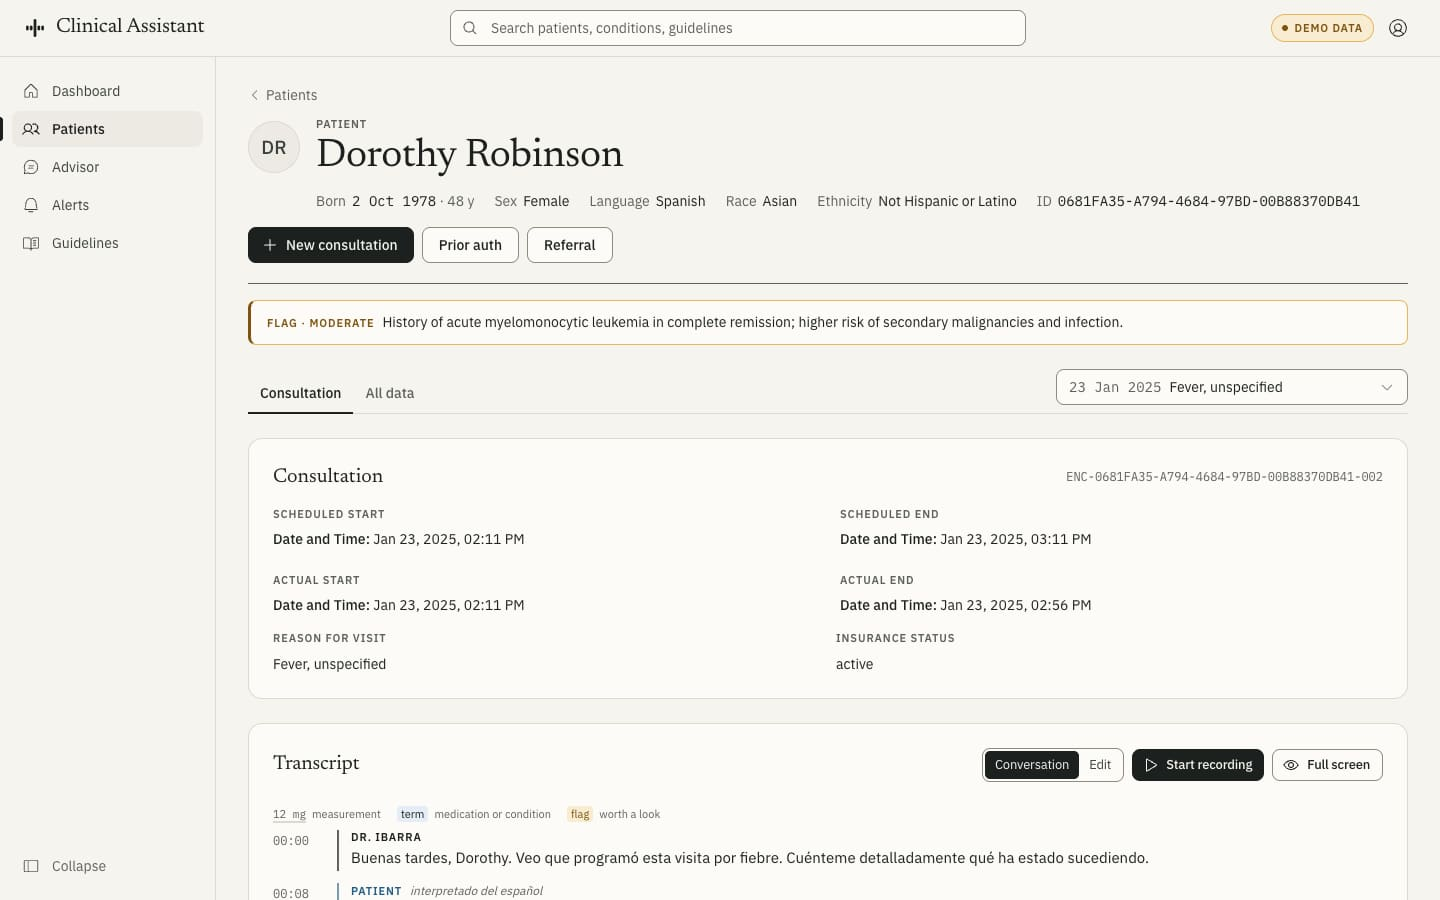
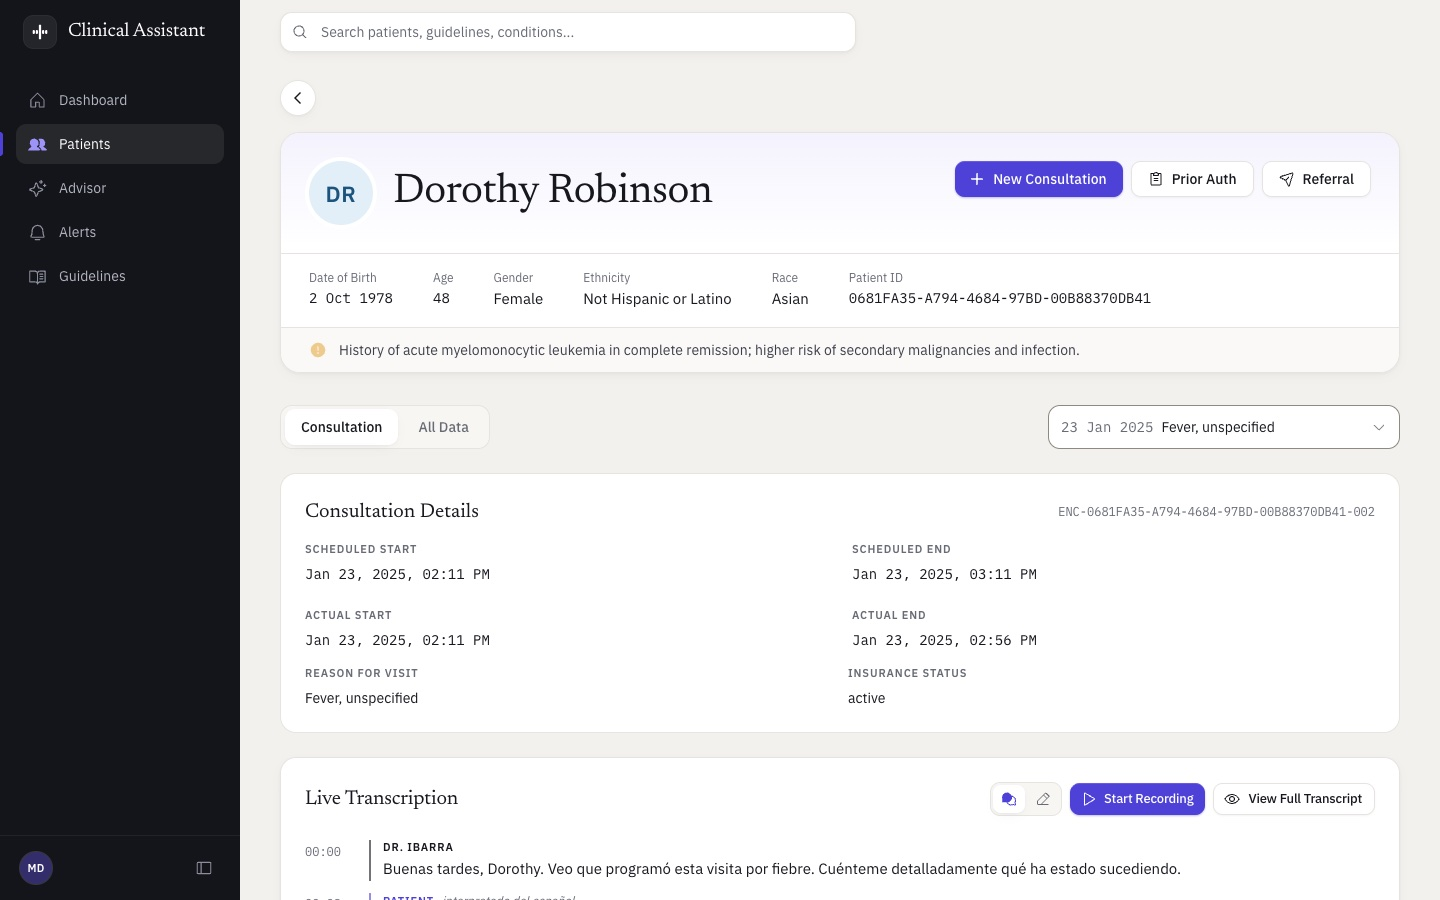
Centre the advisor's composer, and fit the chart's last cards to a phone
The advisor opens with its mark above the composer in the middle of the
screen on a desktop; the composer settles to the foot with the first
question. Treatments stack on a phone instead of overlapping, the form
sections are cards, the alert counts sit in tiles, and the focus ring is
a soft halo. The README screenshot is the new workspace.

By: JJ Martin

diff --git a/src/components/alerts/AlertDashboard.tsx b/src/components/alerts/AlertDashboard.tsx
@@ -7,7 +7,6 @@ import AlertList from './AlertList';
 
 import { Card, CardContent, CardHeader, CardTitle } from '@/components/ui/card';
 
-import { Badge } from '@/components/ui/badge';
 import { Tabs, TabsContent, TabsList, TabsTrigger } from '@/components/ui/tabs';
 import { 
   Funnel as Filter, 
@@ -433,16 +432,18 @@ export const AlertDashboard: React.FC<AlertDashboardProps> = ({
       {/* Statistics Cards with Integrated Filters */}
       <div className="grid grid-cols-1 md:grid-cols-2 gap-4">
         <Card>
-          <CardContent className="p-4">
-            <div className="flex items-center justify-between">
-              <div className="flex items-center space-x-2">
-                <BarChart3 className="h-5 w-5 text-info" />
+          <CardContent className="p-5 sm:p-5">
+            <div className="flex items-center justify-between gap-4">
+              <div className="flex items-center gap-4">
+                <span className="inline-flex h-11 w-11 shrink-0 items-center justify-center rounded-xl ring-1 bg-iris-soft text-iris ring-iris-line" aria-hidden>
+                  <BarChart3 className="h-5 w-5" />
+                </span>
                 <div>
-                  <p className="text-sm font-medium text-ink-2">Total Alerts</p>
-                  <p className="text-2xl font-bold">{totalAlerts}</p>
+                  <p className="label-caps">Total Alerts</p>
+                  <p className="font-display text-3xl [line-height:1.1] text-ink">{totalAlerts}</p>
                 </div>
               </div>
-              <div className="ml-4">
+              <div className="shrink-0">
                 <select
                   value={sortBy}
                   onChange={(e) => handleSortChange(e.target.value as 'date' | 'severity')}
@@ -457,16 +458,18 @@ export const AlertDashboard: React.FC<AlertDashboardProps> = ({
         </Card>
 
         <Card>
-          <CardContent className="p-4">
-            <div className="flex items-center justify-between">
-              <div className="flex items-center space-x-2">
-                <Filter className="h-5 w-5 text-ok" />
+          <CardContent className="p-5 sm:p-5">
+            <div className="flex items-center justify-between gap-4">
+              <div className="flex items-center gap-4">
+                <span className="inline-flex h-11 w-11 shrink-0 items-center justify-center rounded-xl ring-1 bg-ok-soft text-ok ring-ok-line" aria-hidden>
+                  <Filter className="h-5 w-5" />
+                </span>
                 <div>
-                  <p className="text-sm font-medium text-ink-2">Alert Types</p>
-                  <p className="text-2xl font-bold">{uniqueTypes}</p>
+                  <p className="label-caps">Alert Types</p>
+                  <p className="font-display text-3xl [line-height:1.1] text-ink">{uniqueTypes}</p>
                 </div>
               </div>
-              <div className="ml-4">
+              <div className="shrink-0">
                 <select
                   value={selectedType}
                   onChange={(e) => setSelectedType(e.target.value)}
@@ -519,9 +522,9 @@ export const AlertDashboard: React.FC<AlertDashboardProps> = ({
                       <CardTitle className="flex items-center gap-2 text-base">
                         <IconComponent className="h-5 w-5" />
                         {config?.label || type.replace(/_/g, ' ')}
-                        <Badge variant="outline" className="ml-auto">
+                        <span className="ml-auto inline-flex h-6 min-w-6 items-center justify-center rounded-full bg-well px-2 font-sans text-xs font-medium text-ink-2 ring-1 ring-hairline">
                           {typeAlerts.length}
-                        </Badge>
+                        </span>
                       </CardTitle>
                     </CardHeader>
                     <CardContent>

diff --git a/src/components/ui/section.tsx b/src/components/ui/section.tsx
@@ -31,7 +31,7 @@ export default function Section({
   if (!collapsible) {
     return (
       <section className={cn("mb-8 last:mb-0", className)}>
-        <h2 className={cn("text-step-1 font-bold mb-6 text-foreground", headerClassName)}>
+        <h2 className={cn("mb-5 font-display text-xl text-ink [line-height:1.25]", headerClassName)}>
           {title}
         </h2>
         <div className={cn("space-y-4", contentClassName)}>
@@ -41,34 +41,41 @@ export default function Section({
     );
   }
 
+  // Collapsible: a card whose header row opens it.
   return (
-    <Collapsible open={isOpen} onOpenChange={setIsOpen} className={cn("mb-8 last:mb-0", className)}>
+    <Collapsible
+      open={isOpen}
+      onOpenChange={setIsOpen}
+      className={cn("mb-8 rounded-[var(--radius-lg)] border border-border bg-card shadow-card last:mb-0", className)}
+    >
       <CollapsibleTrigger className={cn(
-        "flex items-center justify-between w-full text-left group hover:text-neon transition-all duration-200 p-3 rounded-lg hover:bg-foreground/5 cursor-pointer",
+        "group flex w-full cursor-pointer items-center justify-between gap-4 rounded-[var(--radius-lg)] p-5 text-left transition-colors hover:bg-well/50 focus-visible:outline-none focus-visible:ring-[3px] focus-visible:ring-ring/35 sm:px-6",
         headerClassName
       )}>
-        <div className="flex items-center gap-3">
-          <h2 className="text-step-1 font-bold text-foreground group-hover:text-neon transition-colors">
+        <div className="min-w-0">
+          <h2 className="font-display text-xl text-ink [line-height:1.25]">
             {title}
           </h2>
           {!isOpen && collapsedSummary && (
-            <span className="text-sm text-muted-foreground font-normal">
-              - {collapsedSummary}
-            </span>
+            <p className="mt-0.5 text-sm text-muted-foreground">
+              {collapsedSummary}
+            </p>
           )}
         </div>
-        <ChevronUp 
-          className={cn(
-            "h-5 w-5 text-muted-foreground group-hover:text-neon transition-all duration-300 ease-in-out",
-            isOpen ? "rotate-0" : "rotate-180"
-          )} 
-        />
+        <span className="inline-flex h-8 w-8 shrink-0 items-center justify-center rounded-full bg-well text-ink-2 ring-1 ring-hairline transition-colors group-hover:text-iris">
+          <ChevronUp
+            className={cn(
+              "h-4 w-4 transition-transform duration-300 ease-in-out",
+              isOpen ? "rotate-0" : "rotate-180"
+            )}
+          />
+        </span>
       </CollapsibleTrigger>
       <CollapsibleContent className="data-[state=closed]:animate-accordion-up data-[state=open]:animate-accordion-down overflow-hidden">
-        <div className={cn("pt-6 space-y-4 transition-all duration-300 ease-in-out", contentClassName)}>
+        <div className={cn("space-y-4 px-5 pb-5 sm:px-6 sm:pb-6", contentClassName)}>
           {children}
         </div>
       </CollapsibleContent>
     </Collapsible>
   );
-} 
+}

diff --git a/src/components/ui/editable/EditableTable.tsx b/src/components/ui/editable/EditableTable.tsx
@@ -267,33 +267,35 @@ export function EditableTable({
         ) : (
           <div>
             {normalizedTreatments.length > 0 ? (
-              <div className="space-y-4">
-                <div className="grid grid-cols-12 gap-4 font-medium text-sm text-muted-foreground border-b border-border/30 pb-2">
+              <div>
+                <div className="hidden grid-cols-12 gap-4 border-b border-border pb-2 label-caps sm:grid">
                   <div className="col-span-4">Drug/Medication</div>
                   <div className="col-span-3">Status</div>
                   <div className="col-span-5">Rationale</div>
                 </div>
+                <div className="divide-y divide-border">
                 {normalizedTreatments.map((treatment, index) => (
-                  <div key={index} className="grid grid-cols-12 gap-4 text-sm">
-                    <div className="col-span-4 font-medium">
+                  <div key={index} className="flex flex-col gap-1.5 py-3 text-sm last:pb-0 sm:grid sm:grid-cols-12 sm:gap-4">
+                    <div className="font-medium text-ink sm:col-span-4">
                       {treatment.drug || 'No medication specified'}
                     </div>
-                    <div className="col-span-3">
-                      <span className={`inline-flex items-center px-2 py-1 rounded-full text-xs font-medium ${
+                    <div className="sm:col-span-3">
+                      <span className={`inline-flex items-center rounded-full px-2 py-0.5 text-xs font-medium capitalize ${
                         treatment.status === 'active' ? 'bg-ok-soft text-ok' :
                         treatment.status === 'completed' ? 'bg-info-soft text-info' :
                         treatment.status === 'discontinued' ? 'bg-critical-soft text-critical' :
                         treatment.status === 'on-hold' ? 'bg-flag-soft text-flag' :
                         'bg-well text-ink'
                       }`}>
-                        {statusOptions.find(opt => opt.value === treatment.status)?.label || treatment.status || 'Unknown'}
+                        {(statusOptions.find(opt => opt.value === treatment.status)?.label || treatment.status || 'Unknown').replace(/_/g, ' ')}
                       </span>
                     </div>
-                    <div className="col-span-5 text-muted-foreground">
+                    <div className="leading-relaxed text-muted-foreground sm:col-span-5">
                       {treatment.rationale || 'No rationale provided'}
                     </div>
                   </div>
                 ))}
+                </div>
               </div>
             ) : (
               <p className="text-sm text-muted-foreground/70 text-center py-8">

diff --git a/src/components/views/AdvisorView.tsx b/src/components/views/AdvisorView.tsx
@@ -641,7 +641,7 @@ export default function AdvisorView() {
         <div ref={scrollRef} className="min-h-0 flex-1 overflow-y-auto px-4 pt-6 sm:px-6">
           <div className="mx-auto w-full max-w-3xl space-y-8 pb-56">
             {messages.length <= 1 ? (
-              <div className="flex min-h-[52vh] items-center justify-center">
+              <div className="flex min-h-[52vh] items-center justify-center lg:min-h-[calc(50svh-8rem)] lg:items-end">
                 <span className="relative inline-flex h-24 w-24 items-center justify-center">
                   <span className="absolute inset-0 rounded-[1.75rem] bg-iris-soft ring-1 ring-iris-line" aria-hidden />
                   <span className="dot-live absolute inset-2 rounded-[1.4rem] bg-iris/10" aria-hidden />
@@ -698,11 +698,11 @@ export default function AdvisorView() {
       </ContentSurface>
       {mounted && createPortal(
         <div
-          className="pointer-events-none fixed bottom-3 flex justify-center px-3 sm:bottom-5 sm:px-6"
+          className={`pointer-events-none fixed bottom-3 flex justify-center px-3 sm:bottom-5 sm:px-6 ${messages.length <= 1 ? 'lg:bottom-[calc(50svh-6.5rem)]' : ''}`}
           style={{
             left: 'var(--actual-sidebar-width, 0rem)',
             width: 'calc(100% - var(--actual-sidebar-width, 0rem))',
-            transition: 'left 0.2s ease, width 0.2s ease',
+            transition: 'left 0.2s ease, width 0.2s ease, bottom 0.5s var(--ease-out)',
           }}
         >
           <div className="pointer-events-auto flex w-full max-w-3xl flex-col gap-1 rounded-2xl border border-hairline bg-card px-3 pb-2 pt-2.5 shadow-float transition-shadow focus-within:ring-2 focus-within:ring-iris/30">

diff --git a/src/components/ui/button.tsx b/src/components/ui/button.tsx
@@ -5,7 +5,7 @@ import { cva, type VariantProps } from "class-variance-authority"
 import { cn } from "@/lib/utils"
 
 const buttonVariants = cva(
-  "inline-flex items-center justify-center gap-2 whitespace-nowrap rounded-[0.6rem] text-sm font-medium transition-[background-color,box-shadow,color,transform] duration-150 active:translate-y-px focus-visible:outline-none focus-visible:ring-2 focus-visible:ring-ring focus-visible:ring-offset-2 focus-visible:ring-offset-background disabled:pointer-events-none disabled:opacity-50 [&_svg]:pointer-events-none [&_svg]:size-4 [&_svg]:shrink-0",
+  "inline-flex items-center justify-center gap-2 whitespace-nowrap rounded-[0.6rem] text-sm font-medium transition-[background-color,box-shadow,color,transform] duration-150 active:translate-y-px focus-visible:outline-none focus-visible:ring-[3px] focus-visible:ring-ring/35 focus-visible:ring-offset-1 focus-visible:ring-offset-background disabled:pointer-events-none disabled:opacity-50 [&_svg]:pointer-events-none [&_svg]:size-4 [&_svg]:shrink-0",
   {
     variants: {
       variant: {

diff --git a/src/components/patient-workspace-tabs/ConsolidatedConsultationTab.tsx b/src/components/patient-workspace-tabs/ConsolidatedConsultationTab.tsx
@@ -442,11 +442,11 @@ export default function ConsolidatedConsultationTab({
     <div className="space-y-6">
       {/* Encounter Header */}
       <div className="rounded-[var(--radius-lg)] border border-border bg-card p-5 space-y-4 sm:p-6">
-        <div className="flex items-center justify-between mb-4">
+        <div className="mb-4 flex flex-col gap-1 sm:flex-row sm:items-center sm:justify-between sm:gap-4">
           <h2 className="font-display text-xl text-ink">
             Consultation Details
           </h2>
-          <span className="data-mono break-all text-xs text-muted-foreground">
+          <span className="data-mono break-all text-xs text-muted-foreground sm:text-right">
             {selectedEncounter.encounterIdentifier}
           </span>
         </div>

diff --git a/src/components/diagnosis/DifferentialDiagnosesList.tsx b/src/components/diagnosis/DifferentialDiagnosesList.tsx
@@ -128,9 +128,9 @@ export default function DifferentialDiagnosesList({
   return (
     <div className={`w-full flex flex-col ${className}`}>
       {/* Header - Fixed at top */}
-      <div className="flex-shrink-0 flex items-center justify-between mb-4">
-        <div>
-          <h3 className="text-lg font-semibold text-foreground">Differential Diagnoses</h3>
+      <div className="mb-4 flex flex-shrink-0 items-start justify-between gap-4">
+        <div className="min-w-0">
+          <h3 className="font-display text-xl text-ink [line-height:1.25]">Differential Diagnoses</h3>
           <p className="text-sm text-muted-foreground">
             {diagnoses.length} diagnos{diagnoses.length === 1 ? 'is' : 'es'} ranked by likelihood
           </p>
